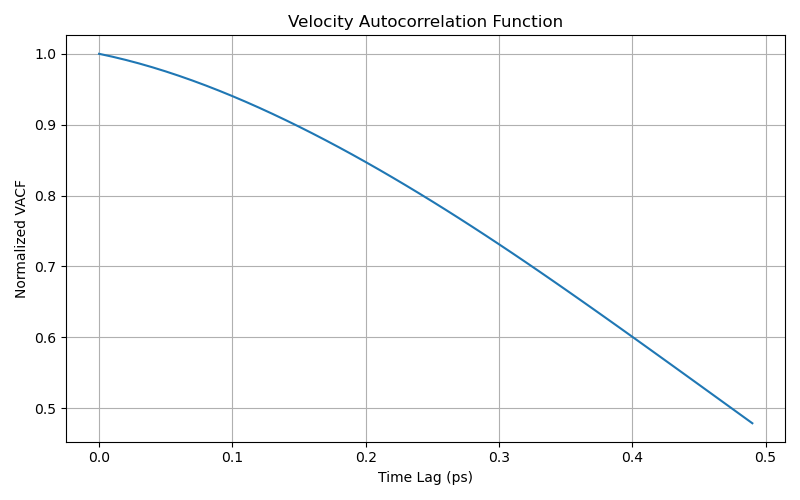
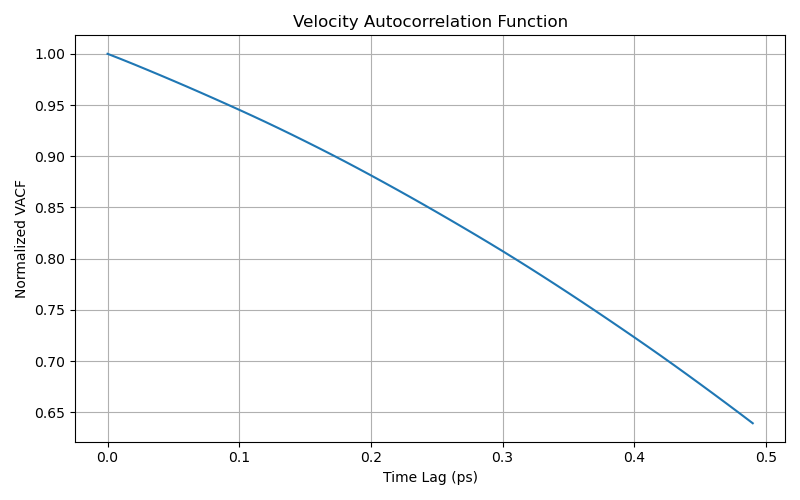
修改了原来的verlet算法为velocity-velet算法从而可以正确得到速度

diff --git a/LJ.py b/LJ.py
@@ -25,7 +25,7 @@ special_follow = 1
 # 是否使用两个势能
 two_potential = True
 # 温度
-temperature = 0  # Kelvin
+temperature = 20  # Kelvin
 # 一些物理学常数
 eV = 1.602176634e-19  # J/eV
 amu = 1.66053906660e-27  # kg
@@ -254,15 +254,10 @@ def compute_new_positions(positions, accelerations, prev_positions, dt):
         new_positions[:, :3] = positions[:, :3] + velocity / angstrom * dt + 0.5 * accelerations * a_unit * dt**2
     else:
         new_positions[:, :3] = 2 * positions[:, :3] - prev_positions[:, :3] + accelerations * a_unit * dt**2
+        print(new_positions[0])
+        print(prev_positions[0])
     return new_positions
 
-
-#边界条件处理出界原子
-def boundary_conditions_2(positions, box_size):
-    wrapped_positions = np.copy(positions)
-    for i in range(3):
-        wrapped_positions[:, i] = np.mod(wrapped_positions[:, i], box_size[i])
-    return wrapped_positions
 def boundary_conditions(positions, box_size):
     # 先转换为晶格坐标
     frac_coords = np.dot(positions[:, :3], inv_supercell)
@@ -321,7 +316,7 @@ current_positions = positions.copy()
 velocity = np.random.normal(0, std_dev, (N, 3))  # m/s
 mean_velocity = np.mean(velocity, axis=0)
 velocity -= mean_velocity
-
+acc, _ = compute_accelerations(current_positions, boundary, nx, ny, nz)
 # 模拟主循环
 trajectory = []
 
@@ -337,11 +332,11 @@ with h5py.File("graphite_simulation.h5", "w") as h5file:
     vel_dataset = h5file.create_dataset("velocity_traj", (steps * N_particles, 5), dtype='f8')
     # 模拟主循环
     for step in tqdm(range(steps)):
-        acc, forces = compute_accelerations(current_positions,boundary, nx, ny, nz)
-        velocity = velocity + 0.5 * acc *a_unit* dt  
-  
-        new_positions = compute_new_positions(current_positions, acc, prev_positions, dt)
+        new_positions = np.copy(current_positions)
+        new_positions[:, :3] += velocity * dt / angstrom + 0.5 * acc * a_unit * dt**2
         new_positions = boundary_conditions(new_positions, box_size)
+        new_acc, forces = compute_accelerations(new_positions, boundary, nx, ny, nz)
+        velocity += 0.5 * (acc + new_acc) * dt
         time_value = (step + 1) * dt  #step是从0开始的，所以需要加1
         
         # 写入数据：仅 xyz 坐标
@@ -394,7 +389,7 @@ with h5py.File("graphite_simulation.h5", "w") as h5file:
         
         prev_positions = current_positions.copy()
         current_positions = new_positions.copy()
-
+        acc = new_acc 
     if writetext:
         output_file.close()
 
